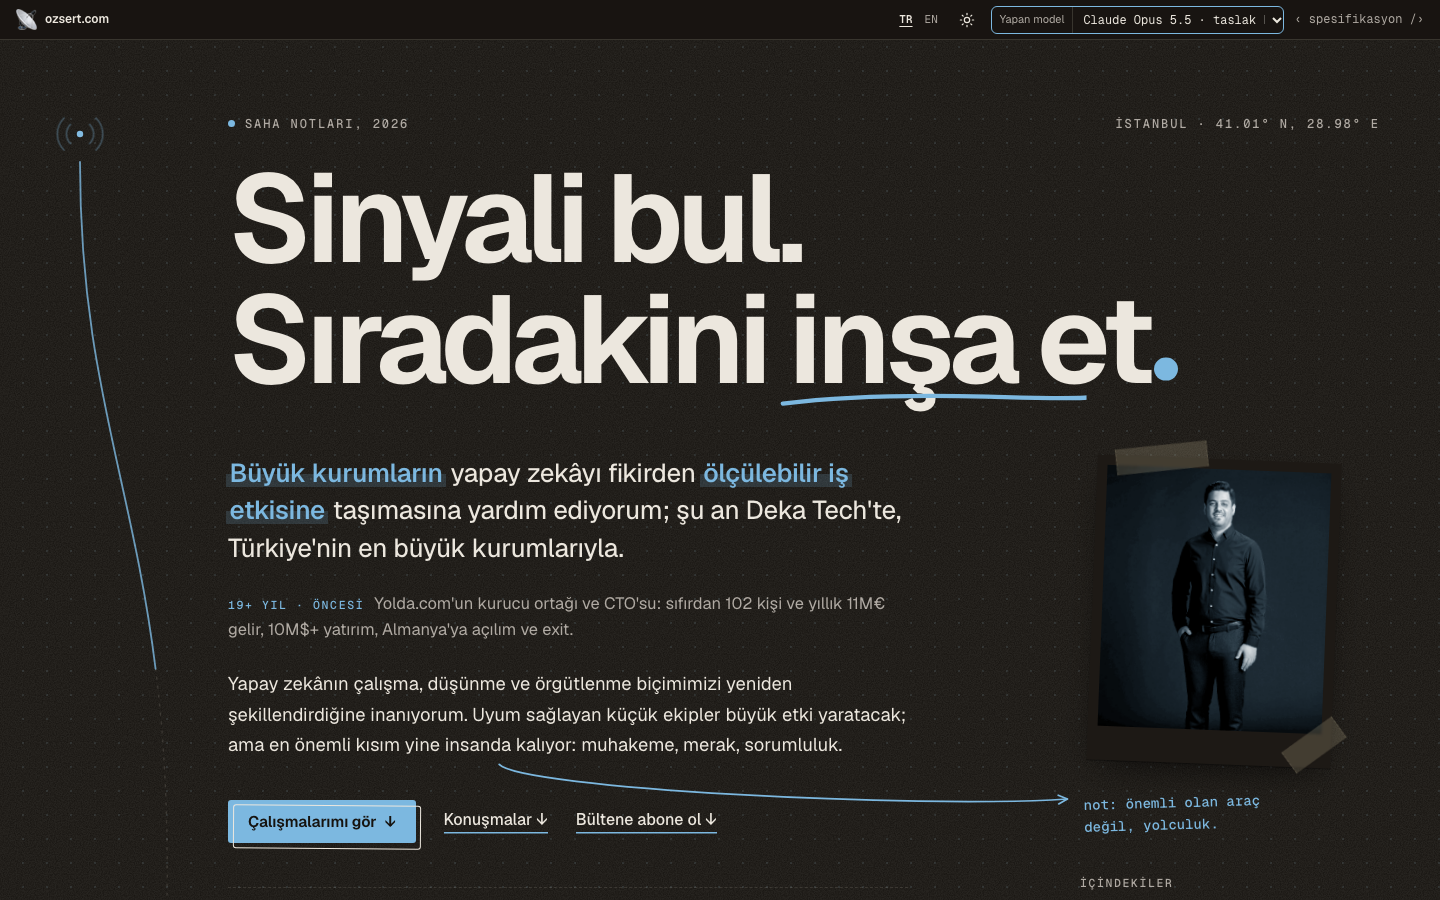
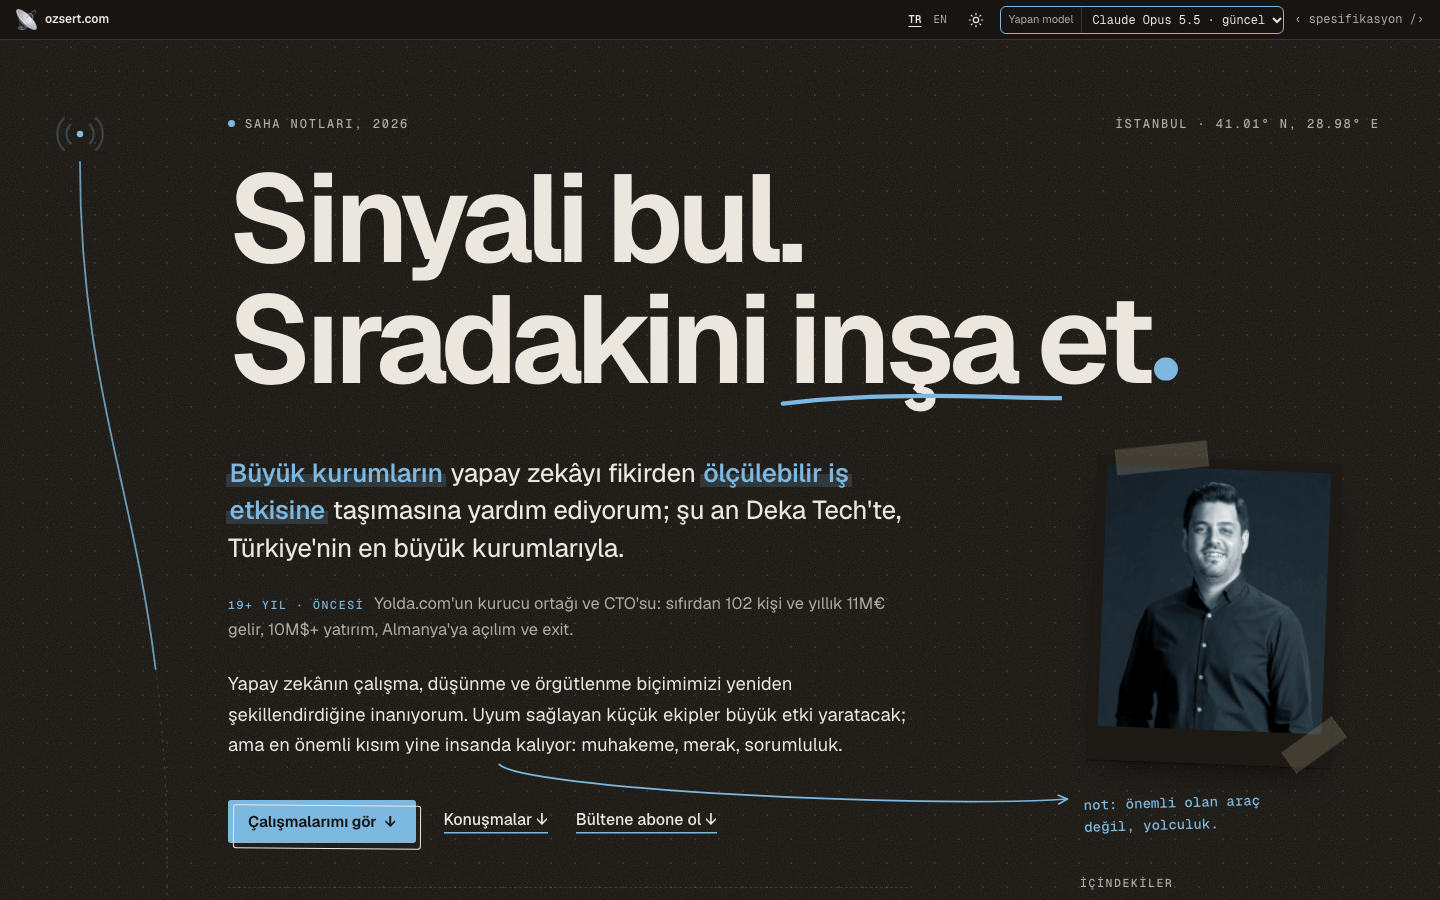
Fix accent scenes not drawing on the first colour click
The CSS draw transition didn't reliably start on a scene that had never been shown,
so a colour picked before scrolling left the hero figure blank until a second pick.
Scene lines are now drawn with explicit Web Animations (CSS transition off on them),
both on the first reveal and on every colour change. Timeline thumbnails refreshed.

Changed region(s): [[0.75, 0.5289, 0.9375, 0.84], [0.625, 0.0, 0.875, 0.0311]]

diff --git a/models/claude-opus-5-5/script.js b/models/claude-opus-5-5/script.js
@@ -393,14 +393,28 @@
     showScene(OZ.accent, false);
   }
   var sceneSeen = false;
+  // Draw a scene's lines with explicit animations. A CSS transition on a scene that was never shown
+  // before doesn't always start, which left the scene blank on the first click of a colour.
+  function drawScene(s, animate) {
+    s.classList.add("vo55-in");
+    $$("[pathLength]", s).forEach(function (p) {
+      p.style.transition = "none"; // the drawing is driven below, not by the CSS transition
+      p.getAnimations().forEach(function (a) { a.cancel(); });
+      if (!animate) return;
+      var cs = getComputedStyle(p);
+      p.animate([{ strokeDashoffset: 1 }, { strokeDashoffset: 0 }], {
+        duration: (parseFloat(cs.getPropertyValue("--dur")) || 1) * 1000,
+        delay: (parseFloat(cs.getPropertyValue("--delay")) || 0) * 1000,
+        easing: "cubic-bezier(.2, .7, .2, 1)", fill: "backwards"
+      });
+    });
+  }
   function showScene(id, redraw) {
     if (redraw) sceneSeen = true; // the user picked a colour: draw the new scene now, even before the reveal fired
     $$(".vo55-scene").forEach(function (s) {
       var on = s.getAttribute("data-scene") === id;
       s.classList.toggle("vo55-on", on);
-      if (on && redraw && sceneSeen && !still()) {
-        s.classList.remove("vo55-in"); void s.getBoundingClientRect(); s.classList.add("vo55-in");
-      } else if (on && sceneSeen) s.classList.add("vo55-in");
+      if (on && sceneSeen) drawScene(s, redraw && !still());
     });
     $(".vo55-fig1-cap").textContent = t("hero.fig." + id);
   }
@@ -808,7 +822,7 @@
     ents.forEach(function (e) {
       if (!e.isIntersecting) return;
       e.target.classList.add("vo55-in");
-      if (e.target.classList.contains("vo55-scenes")) { sceneSeen = true; showScene(OZ.accent, false); }
+      if (e.target.classList.contains("vo55-scenes")) { sceneSeen = true; showScene(OZ.accent, true); }
       io.unobserve(e.target);
     });
   }, { rootMargin: "0px 0px -8% 0px", threshold: .12 }) : null;
